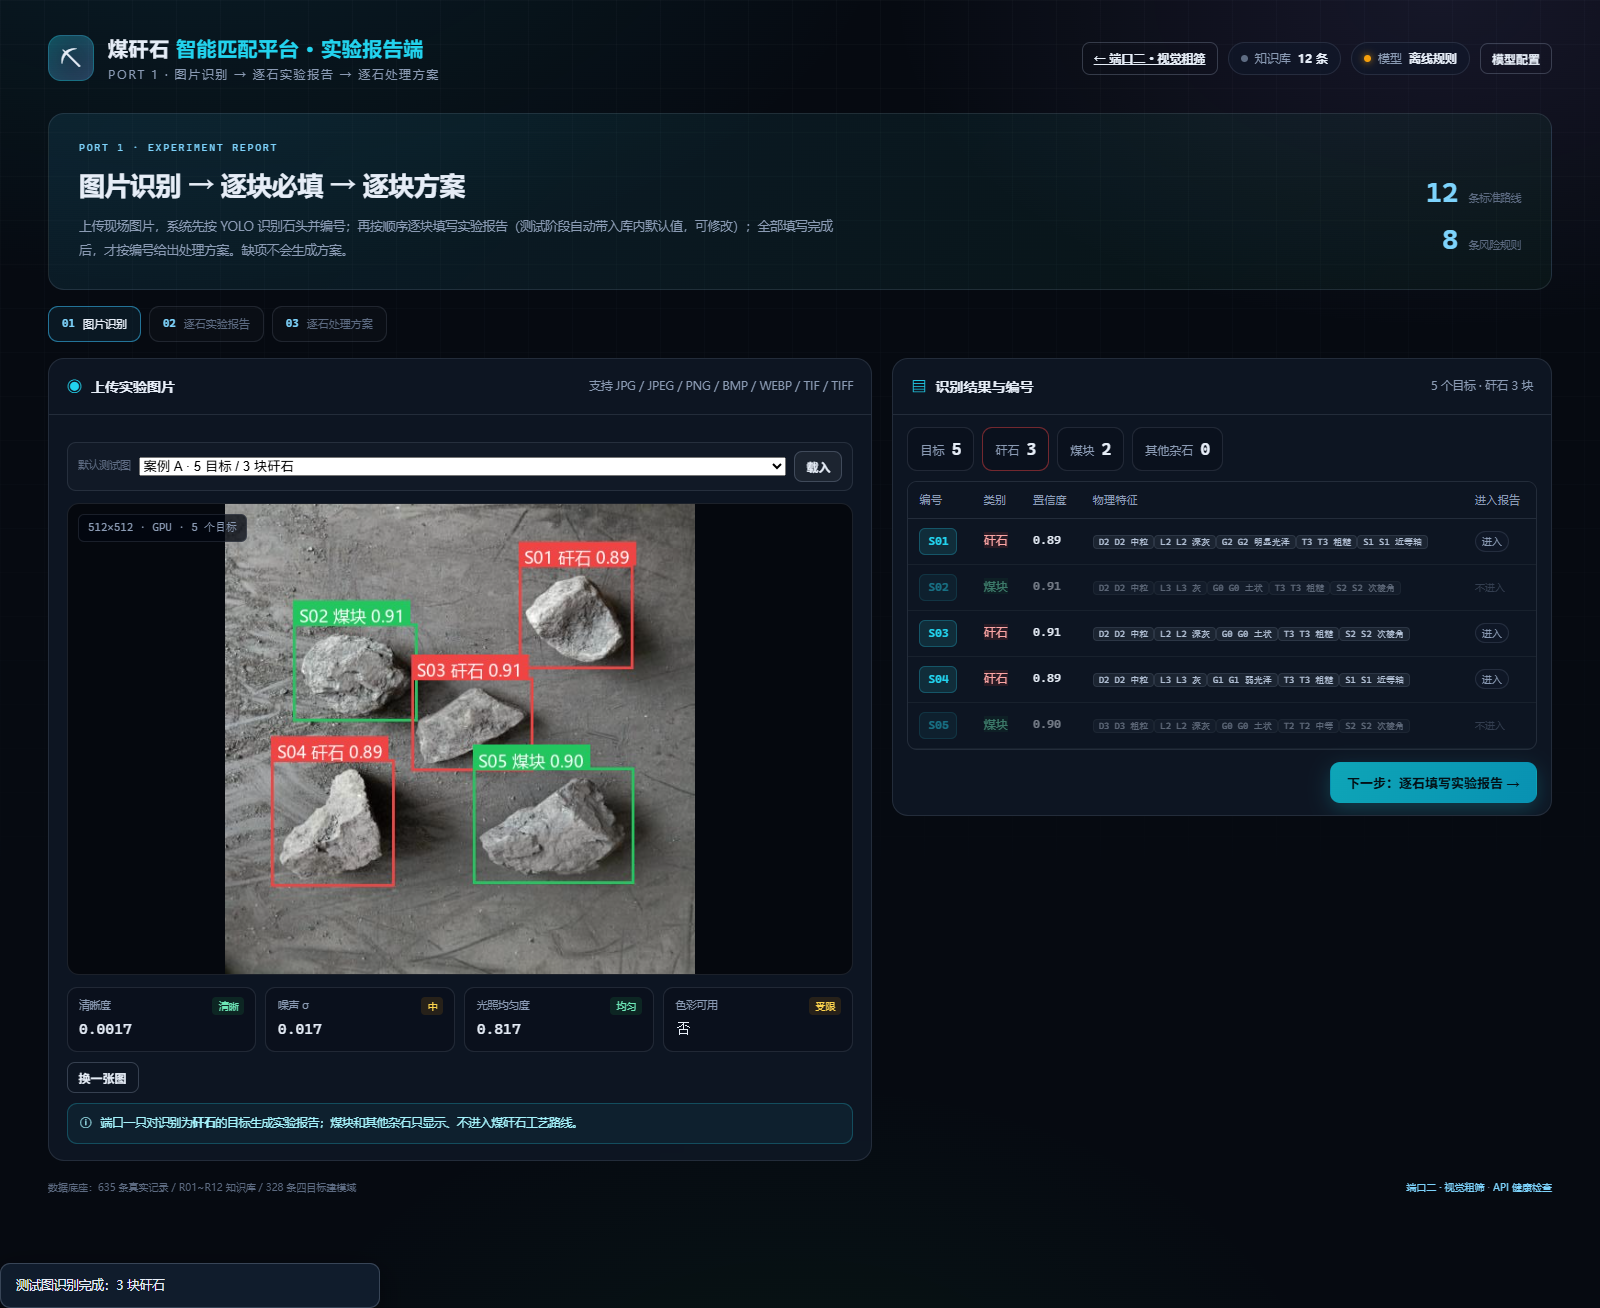
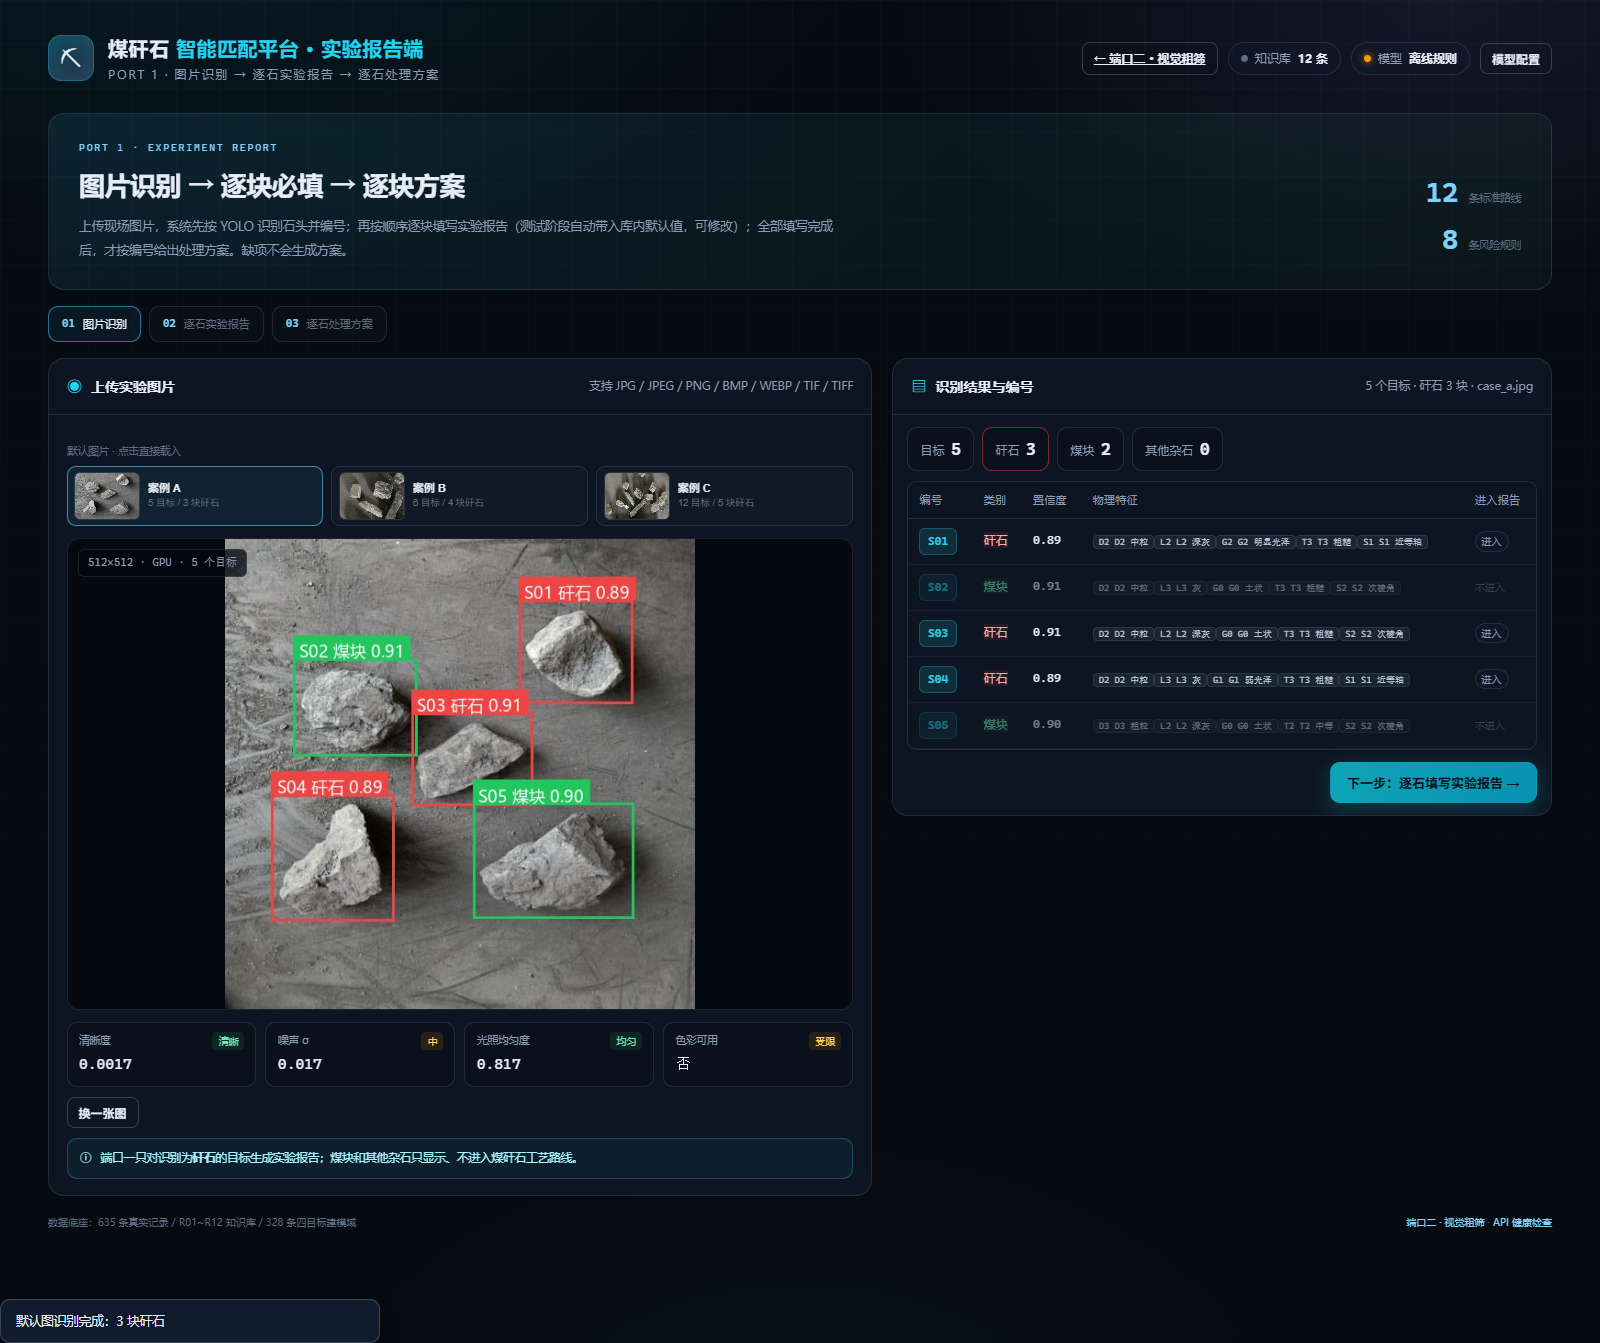
feat: show clickable default image cards on port one

diff --git a/static/precision.js b/static/precision.js
@@ -160,15 +160,17 @@ async function uploadFile(file) {
   }
 }
 
-async function loadDemoImage() {
+async function loadDemoImage(path) {
   clearDetectError();
   $("#p1-detect-sub").textContent = "识别中…";
   $("#p1-to-forms").disabled = true;
   try {
-    const path = $("#p1-demo-select").value || "tests/images/case_a.jpg";
+    path = path || "tests/images/case_a.jpg";
+    document.querySelectorAll("#p1-demo-grid [data-path]").forEach((el) => el.classList.toggle("active", el.dataset.path === path));
     const d = await api("/api/detect", { method: "POST", headers: { "Content-Type": "application/json" }, body: JSON.stringify({ path, conf: 0.25, iou: 0.45 }) });
     renderDetect(d);
-    toast(`测试图识别完成：${P.gangue.length} 块矸石`, "ok");
+    $("#p1-detect-sub").textContent = `${d.total} 个目标 · 矸石 ${P.gangue.length} 块 · ${path.split("/").pop()}`;
+    toast(`默认图识别完成：${P.gangue.length} 块矸石`, "ok");
   } catch (e) {
     showDetectError("识别失败：" + e.message);
     $("#p1-detect-sub").textContent = "识别失败";
@@ -506,8 +508,15 @@ async function init() {
     $("#chip-kb").innerHTML = `<i class="dot"></i>知识库 <b>${(d.routes || []).length} 条</b>`;
     const sel = $("#p1-r-desired");
     sel.innerHTML += (d.routes || []).map((r) => `<option value="${esc(r.id)}">${esc(r.id)} · ${esc(r.name)}</option>`).join("");
-    const demo = $("#p1-demo-select");
-    demo.innerHTML = (d.demo_images || []).map((x) => `<option value="${esc(x.path)}">${esc(x.label || x.name)}</option>`).join("");
+    const demo = $("#p1-demo-grid");
+    demo.innerHTML = (d.demo_images || []).map((x) => `<button type="button" class="demo-card" data-path="${esc(x.path)}">
+      <img src="/${esc(x.path)}" alt="${esc(x.name)}" loading="lazy">
+      <span><b>${esc((x.label || x.name).split("·")[0].trim())}</b><small>${esc((x.label || "").split("·").slice(1).join("·").trim() || x.name)}</small></span>
+    </button>`).join("");
+    demo.addEventListener("click", (e) => {
+      const card = e.target.closest("[data-path]");
+      if (card && card.dataset.path) loadDemoImage(card.dataset.path);
+    });
     renderLLMChip();
     fillConfig();
   } catch (e) {
@@ -520,7 +529,6 @@ async function init() {
   drop.addEventListener("drop", (e) => { const f = e.dataTransfer.files && e.dataTransfer.files[0]; if (f) uploadFile(f); });
   $("#p1-file").addEventListener("change", (e) => { const f = e.target.files && e.target.files[0]; if (f) uploadFile(f); });
   $("#p1-btn-clear").addEventListener("click", () => { $("#p1-image-box").style.display = "none"; $("#p1-drop").style.display = ""; $("#p1-file").value = ""; P.detect = null; P.gangue = []; P.forms = []; $("#p1-to-forms").disabled = true; $("#p1-stone-body").innerHTML = `<tr><td colspan="5"><div class="empty" style="min-height:160px;border:0">上传图片后显示编号、类别和 D/L/G/T/S</div></td></tr>`; });
-  $("#p1-btn-demo").addEventListener("click", loadDemoImage);
   $("#p1-to-forms").addEventListener("click", () => { if (!P.forms.length) { toast("没有可填写报告的矸石", "err"); return; } P.idx = 0; showStep(2); });
   $("#p1-prev").addEventListener("click", prevForm);
   $("#p1-save-next").addEventListener("click", nextForm);

diff --git a/static/styles.css b/static/styles.css
@@ -576,3 +576,11 @@ td.num, th.num { font-family: var(--mono); text-align: right; }
 .demo-picker { display:flex; align-items:center; gap:8px; margin-top:11px; padding:8px 10px; border:1px solid var(--line); border-radius:9px; background:rgba(255,255,255,.015); }
 .demo-picker .demo-label { font-size:10.5px; color:var(--dim); white-space:nowrap; }
 .demo-picker select { flex:1; min-width:160px; }
+.demo-title { font-size:10.5px; color:var(--dim); margin:12px 0 6px; }
+.demo-grid { display:grid; grid-template-columns:repeat(3,minmax(0,1fr)); gap:8px; }
+.demo-card { display:flex; align-items:center; gap:8px; text-align:left; border:1px solid var(--line); border-radius:9px; padding:5px 6px; background:rgba(255,255,255,.015); color:var(--muted); cursor:pointer; transition:.18s; }
+.demo-card:hover, .demo-card.active { border-color:rgba(125,211,252,.55); background:rgba(56,189,248,.08); }
+.demo-card img { width:66px; height:48px; object-fit:cover; border-radius:6px; border:1px solid rgba(148,163,184,.18); flex:none; }
+.demo-card b { display:block; color:var(--ink); font-size:11px; line-height:1.4; }
+.demo-card small { display:block; color:var(--dim); font-size:9.5px; line-height:1.5; }
+@media (max-width:760px) { .demo-grid { grid-template-columns:1fr; } }

diff --git a/static/precision.html b/static/precision.html
@@ -59,11 +59,8 @@
             <small>支持 .jpg .jpeg .png .bmp .webp .tif .tiff；上传后会按检测结果编号</small>
           </div>
           <input type="file" id="p1-file" accept=".jpg,.jpeg,.png,.bmp,.webp,.tif,.tiff,image/*" hidden>
-          <div class="demo-picker">
-            <span class="demo-label">默认测试图</span>
-            <select id="p1-demo-select"></select>
-            <button class="btn sm" id="p1-btn-demo">载入</button>
-          </div>
+          <div class="demo-title">默认图片 · 点击直接载入</div>
+          <div class="demo-grid" id="p1-demo-grid"></div>
           <div id="p1-image-box" style="display:none;margin-top:12px">
             <div class="image-stage">
               <span class="badge" id="p1-image-badge">—</span>
